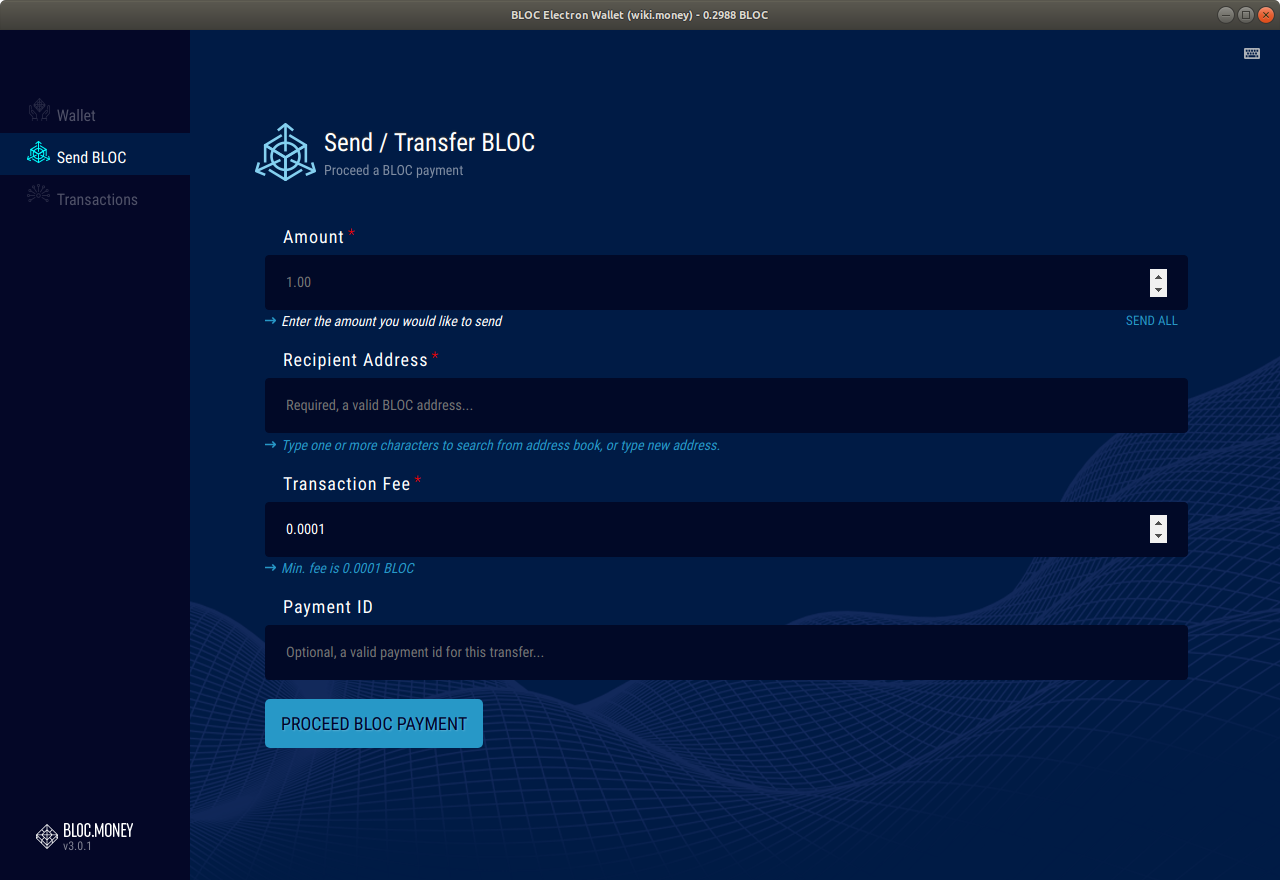
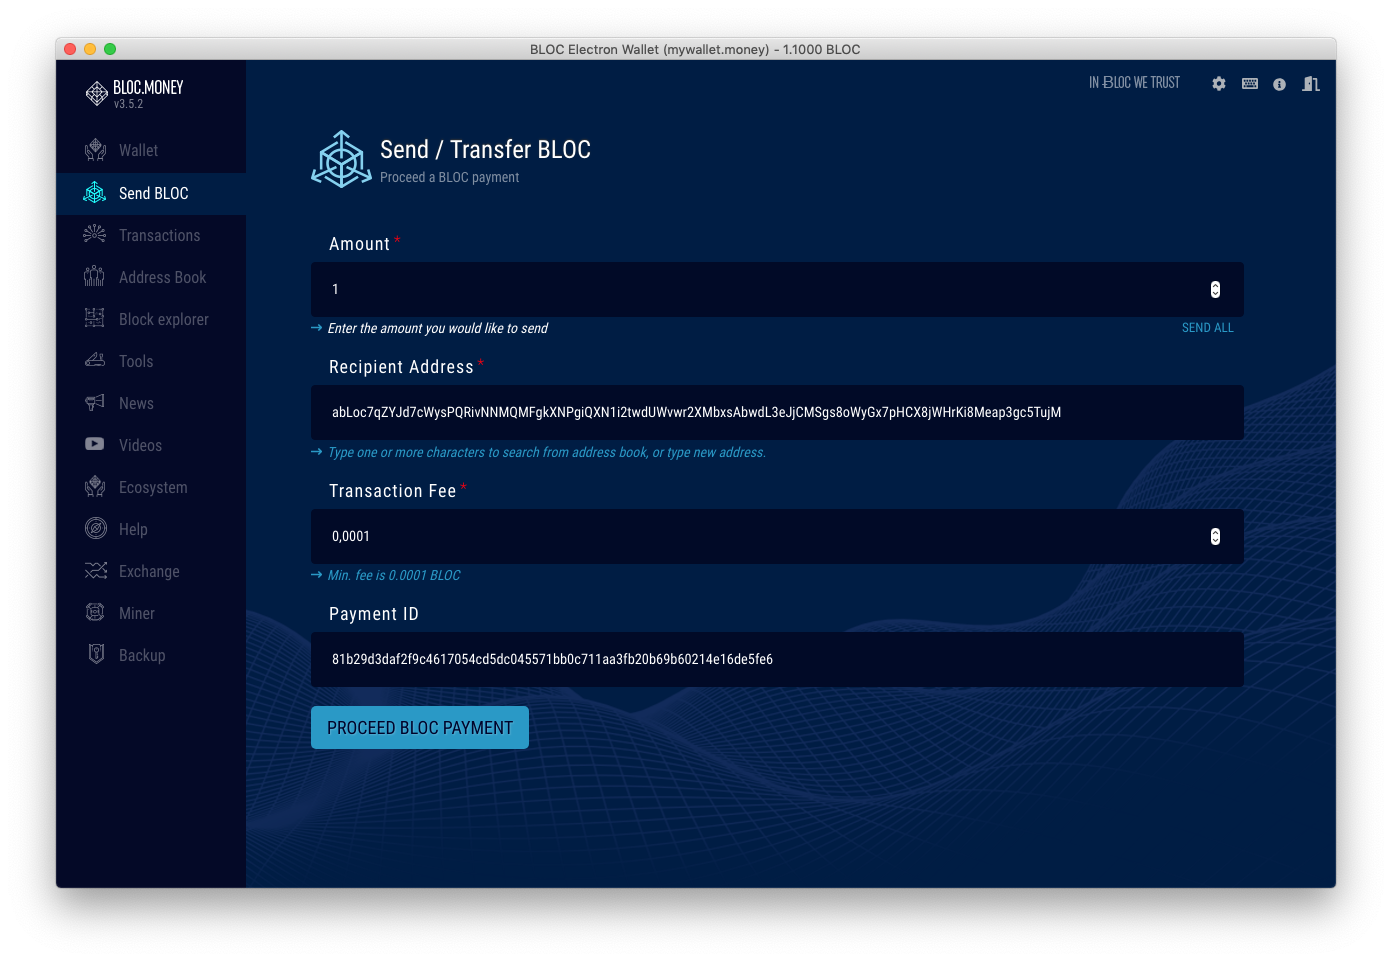
Updating BLOC Electron Wallet

diff --git a/docs/wallets/BLOC-GUI-Electron-Wallet.md b/docs/wallets/BLOC-GUI-Electron-Wallet.md
@@ -4,7 +4,7 @@
 
 ## **Screenshot**
 
-![BLOC Electron Wallet - Welcome screen](images/BLOC-gui-wallet/V3/welcome.png)
+![BLOC Electron Wallet - Welcome screen](images/BLOC-gui-wallet/V3/2-BLOC-electron-wallet-welcome.png)
 
 **Notes**
 
@@ -22,23 +22,23 @@ If you don't trust the bundled BLOC-service file, you can download and use the b
 
 You can download the BLOC Electron Wallet from two places
 
-* BLOC Electron Wallet from [GitHub](https://github.com/furiousteam/BLOC-electron-wallet/releases)
 * BLOC Electron Wallet from [BLOC.MONEY](https://bloc.money/download)
+* BLOC Electron Wallet from [GitHub](https://github.com/furiousteam/BLOC-electron-wallet/releases)
 
-Once you have downloaded the file, go to your computer and double click the installation package to install the BLOC wallet.
-Select the BLOC wallet application and put in where you like
+Once you have downloaded the file, go to your computer and double click the installation package to install the BLOC Electron wallet.
+Select the BLOC wallet application and place it where you like.
 
 ## **Lanch the app**
 
 #### Windows:
 
-1. Download the latest installer here: https://github.com/furiousteam/BLOC-electron-wallet/releases
+1. Download the latest installer [here](https://bloc.money/download)
 2. Run the installer (BLOC-Electron-Wallet-<version>-win-setup.exe) and follow the installation wizard.
 3. Run as Administrator BLOC-Electron-Wallet via start menu or desktop shortcut. (right click on the app icon and select run as Administrator)
 
 #### GNU/Linux (AppImage):
 
-1. Download latest AppImage bundle here: https://github.com/furiousteam/BLOC-electron-wallet/releases
+1. Download latest AppImage bundle [here](https://bloc.money/download)
 2. Make it executable, either via GUI file manager or command line, e.g. `chmod +x BLOC-Electron-Wallet-<version>-linux.AppImage`
 3. Run/execute the file, double click in file manager, or run via shell/command line.
 
@@ -46,22 +46,23 @@ See: https://docs.appimage.org/user-guide/run-appimages.html
 
 #### macOS
 
-1. Download latest archive here: https://github.com/furiousteam/BLOC-electron-wallet/releases
+1. Download latest archive [here](https://bloc.money/download)
 2. Extract downloaded zip archived into your home folder
 3. Open terminal and Run: `cd /Users/YOURNAME/BLOC-Electron-Wallet.app/Contents/MacOS && ./BLOC-Electron-Wallet`
 
 
 ## **Settings**
 
-![BLOC Electron Wallet](images/BLOC-gui-wallet/V3/settings.png)
+![BLOC Electron Wallet](images/BLOC-gui-wallet/V3/1-BLOC-electron-wallet-settings.png)
 
 The settings screen will appear the 1st time you are launching the BLOC Electron Wallet. On first launch, BLOC Electron Wallet will try to detect location/path of bundled BLOC-service binary, but if it's failed, you can manually set path to the BLOC-service binary on the Settings screen.
 
 If you are happy to use the bundled BLOC-service simply click the `SAVE` button.
+If you wish to use your own binary select the path location
 
 ## **Welcome Screen**
 
-![BLOC Electron Wallet - Welcome screen](images/BLOC-gui-wallet/V3/welcome.png)
+![BLOC Electron Wallet - Welcome screen](images/BLOC-gui-wallet/V3/2-BLOC-electron-wallet-welcome.png)
 
 Welcome to your BLOC wallet. There is 4 differents options available.
 
@@ -70,24 +71,25 @@ Welcome to your BLOC wallet. There is 4 differents options available.
 3. Import private keys to restore a wallet
 4. Import Mnemonic seed words to restore a wallet
 
-## **1. Create new wallet**<a name="create-wallet"></a>
+## **Create new wallet**<a name="create-wallet"></a>
 
-![BLOC Electron Wallet - Create a new wallet](images/BLOC-gui-wallet/V3/create-a-new-wallet.png)
+![BLOC Electron Wallet - Create a new wallet](images/BLOC-gui-wallet/V3/3-BLOC-electron-wallet-create)
 
 If this is your 1st time using BLOC or you just need to create a new wallet use this option.
 
 1. Select where the wallet file will be stored. Click on the folder icon, choose where you woud like to save your wallet, enter the name of the file and click save.
 2. Set the required password to open this wallet file
 3. Click the button `CREATE A NEW BLOC WALLET`
-4. Wallet file is saved with the following extension: `yourwallet.money`
+4. Wallet file is saved with the following extension: `mywallet.money`
 
 You should see a message: Wallet has been imported. You can now [open the wallet](../wallets/BLOC-GUI-Electron-Wallet.md#open-wallet).
 
-## **2. Open an existing wallet file .money**<a name="open-wallet"></a>
+## **Open an existing wallet file .money**<a name="open-wallet"></a>
 
-BLOC Electron Wallet require a connection to a BLOC node to be able to work. We have two possibilities:
+BLOC Electron Wallet require a connection to a BLOC node to be able to work.
+You have two possibilities:
 
-![BLOC Electron Wallet - Open an existing wallet file .money](images/BLOC-gui-wallet/V3/OPEN-a-wallet.png)
+![BLOC Electron Wallet - Open an existing wallet file .money](images/BLOC-gui-wallet/V3/4-BLOC-electron-wallet-open)
 
 1. Create your own node - Download and start BLOCd on your machine locally or remotely then connect to it with BLOC Electron Wallet.
 2. Use a public remote BLOC node and do not bother with the tech. Select your favorite BLOC public node and connect to it.
@@ -112,7 +114,7 @@ Find out more about [BLOC remote nodes](../wallets/Using-remote-nodes.md) and ho
 
 You are now ready to use your wallet. Please follow the next instructions on how to use your wallet.
 
-## **3. Import Private Keys to restore a wallet**<a name="import-private-keys"></a>
+## **Import Private Keys to restore a wallet**<a name="import-private-keys"></a>
 
 If you already have BLOC wallet address you can import your private keys using this method.
 
@@ -131,7 +133,7 @@ This will restore your wallet address, funds present on it but also the complete
 
 You should see a message: Wallet has been imported. You can now [open the wallet](../wallets/BLOC-GUI-Electron-Wallet.md#open-wallet).
 
-## **4. Import Mnemonic seed words to restore a wallet**<a name="import-mnemonic-seed"></a>
+## **Import Mnemonic seed words to restore a wallet**<a name="import-mnemonic-seed"></a>
 
 If you already have BLOC wallet created since the BLOC V3.0 you should already have a Mnemonic seed. You can import it using this method.
 
@@ -162,6 +164,8 @@ The overview display all the important informations about your wallet such as:
 4. `Node fee` shows the fee amount used by this node for each transaction.
 5. `Your wallet address` that can be shared to your customers/friends so they can pay you
 6. `QR Code` makes it even easier to share your BLOC address. Scan to share.
+6. `BLOC Price` display BLOC price from CoinGecko
+6. `OPTIMIZE` button optimize your wallet to send larger amount transactions. Required if you are mining with this address and receive a lot of small transactions.
 
 
 ## **Send BLOC**
@@ -173,9 +177,19 @@ Send/Transfer BLOC.MONEY to any other BLOC wallet address.
 1. Type the amount you would like to send
 2. Enter the recipient address
 3. The fees are set automatically to 0.0001 BLOC
-1. You can enter a payement ID if you have one, it must contain 64 caracters
+1. If the receiver provided you with a Payment ID you can enter it here, it must contain 64 caracters
 5. Once you are ready click. `PROCEED BLOC PAYMENT`
 
+![BLOC Electron Wallet - Send BLOC](images/BLOC-gui-wallet/V3/send-confirm.png)
+
+Confirm all the informations are correct.
+If everything is ok click `POK SEND IT` or `CANCEL` button to return to previous screen
+Transactions are sent in real time.
+
+![BLOC Electron Wallet - Send BLOC](images/BLOC-gui-wallet/V3/send-sent.png)
+
+You can checkout the Transaction Hash (Tx. hash) provided for your transaction at the bottom part.
+If an error happen it will appear here.
 
 ## **Transactions**
 
@@ -183,6 +197,11 @@ Transactions list all incomming and outgoing transactions from this wallet.
 
 ![BLOC Electron Wallet - Transactions](images/BLOC-gui-wallet/V3/transactions.png)
 
-The BLOCK Explorer shows you blocks details from the blockchain including the transaction that it contains.
+- Search transaction by transaction hash or payment ID
+- Transactions can be sorted by amount, date or status
+- Click on a transaction to get more details
+- Export transactions as .csv file
 
 ![BLOC Electron Wallet - Transactions](images/BLOC-gui-wallet/V3/transaction-details.png)
+
+You can also view the transaction on the block explorer.
